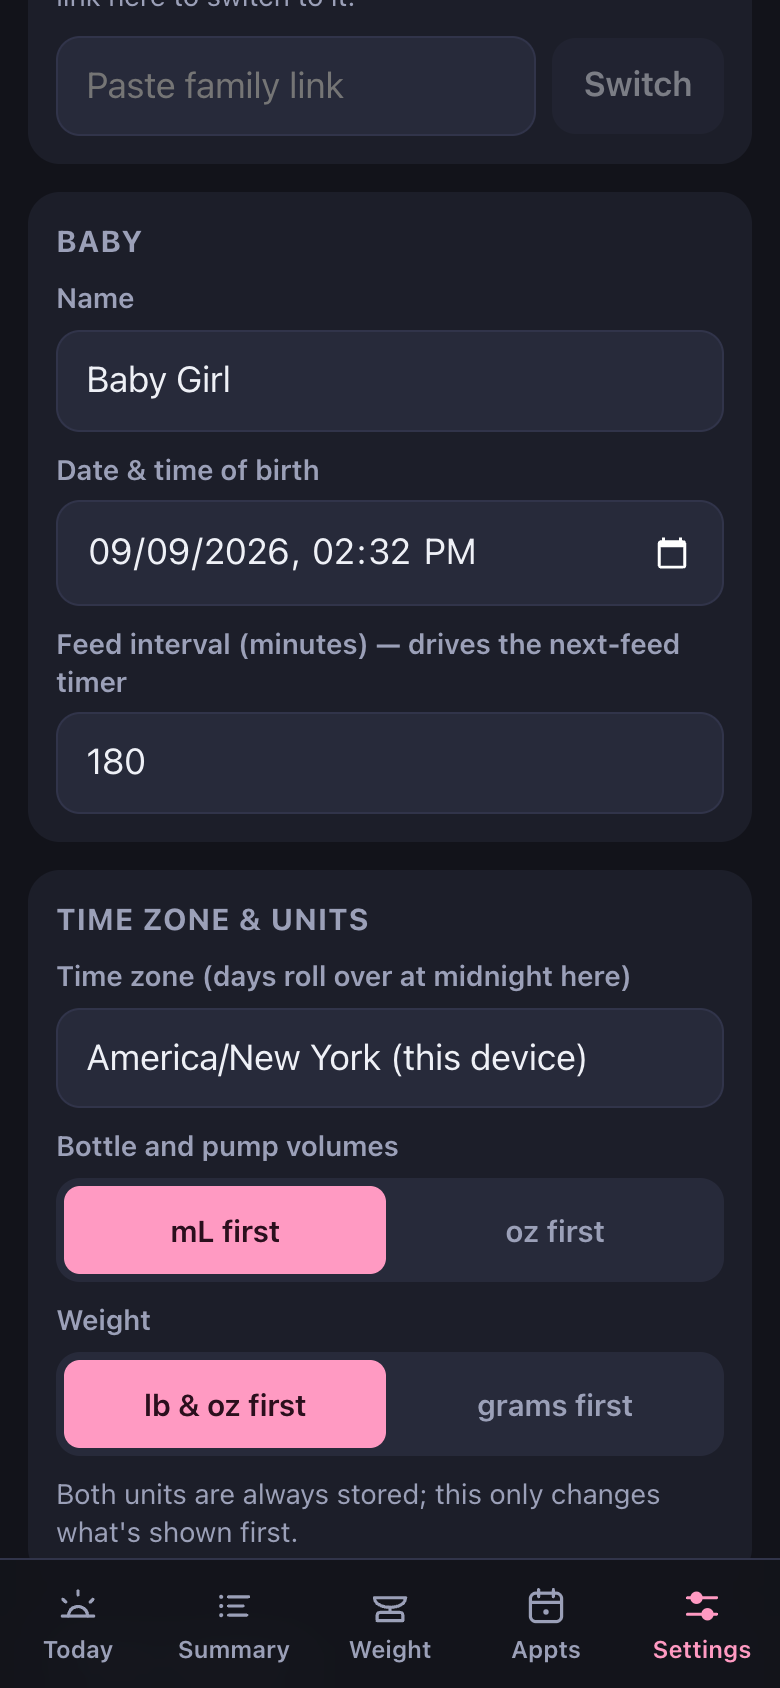
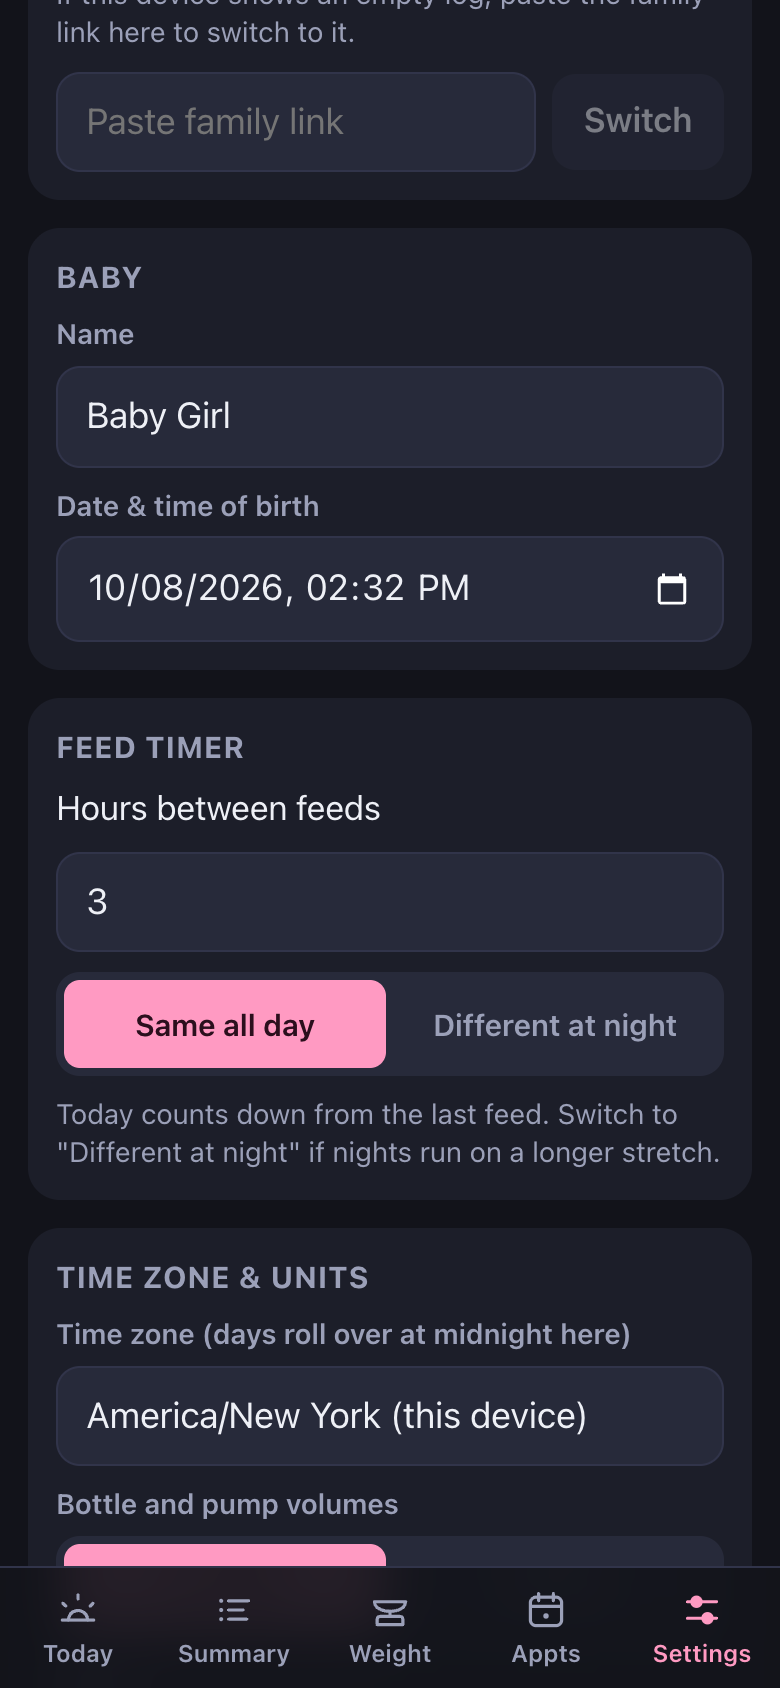
Feed timer: optional night interval chosen by when the last feed started; release notes 1.17

Changed region(s): [[0.0615, 0.0, 0.9538, 0.9858], [0.7385, 0.0308, 0.8923, 0.0924], [0.5846, 0.0, 0.6154, 0.0308]]

diff --git a/src/screens/Settings.tsx b/src/screens/Settings.tsx
@@ -2,7 +2,7 @@ import { useEffect, useState } from 'react';
 import { useStore } from '../data/store';
 import { useUI } from '../ui';
 import { shareUrl, joinHousehold } from '../household';
-import { MEDS, allMeds, type Settings as S, type Who } from '../types';
+import { MEDS, allMeds, type Who } from '../types';
 import { Field, Seg } from '../components/common';
 import { getTimezone, deviceTimezone } from '../lib/time';
 import { entriesToCsv, backupJson, deliverFile } from '../lib/export';
@@ -29,6 +29,14 @@ function MedInterval({ label, minutes, onSave }: { label: string; minutes: numbe
   );
 }
 
+/** "21:00" shifted by `deltaMin`, as "8:30 PM". */
+function fmtClock(hhmm: string, deltaMin: number): string {
+  const [h, m] = hhmm.split(':').map(Number);
+  const t = (((h * 60 + m + deltaMin) % 1440) + 1440) % 1440;
+  const hh = Math.floor(t / 60), mm = t % 60;
+  return `${hh % 12 || 12}:${String(mm).padStart(2, '0')} ${hh < 12 ? 'AM' : 'PM'}`;
+}
+
 const TIMEZONES: string[] = (() => {
   try { const all = (Intl as unknown as { supportedValuesOf?: (k: string) => string[] }).supportedValuesOf?.('timeZone'); if (all?.length) return all; } catch { /* ignore */ }
   return ['America/New_York', 'America/Chicago', 'America/Denver', 'America/Los_Angeles', 'America/Phoenix', 'America/Anchorage', 'Pacific/Honolulu', 'America/Toronto', 'America/Vancouver', 'Europe/London', 'Europe/Paris', 'Europe/Berlin', 'Asia/Tokyo', 'Australia/Sydney', 'UTC'];
@@ -43,8 +51,8 @@ export function Settings() {
   const [busy, setBusy] = useState<string | null>(null);
   const [doc, setDoc] = useState<{ title: string; src: string } | null>(null);
   const url = shareUrl(hid);
-  const num = (k: keyof S) => (v: string) => { const n = +v; if (!isNaN(n) && n > 0) void saveSettings({ [k]: n } as Partial<S>); };
   const tz = settings.tz ?? getTimezone();
+  const night = settings.night_feeds ?? { enabled: false, start: '21:00', end: '06:00' };
   const units = settings.units ?? { volume: 'ml', weight: 'lb' };
   const custom = settings.custom_meds ?? [];
   const meds = allMeds(custom).filter((m) => m.value !== 'other');
@@ -144,7 +152,24 @@ export function Settings() {
         <h3>Baby</h3>
         <TextSetting label="Name" value={settings.baby_name} onSave={(v) => void saveSettings({ baby_name: v || 'Baby' })} />
         <TextSetting label="Date & time of birth" type="datetime-local" value={settings.dob} onSave={(v) => v && void saveSettings({ dob: v })} />
-        <TextSetting label="Feed interval (minutes) — drives the next-feed timer" type="number" inputMode="numeric" value={String(settings.feed_interval_min)} onSave={num('feed_interval_min')} />
+      </div>
+
+      <div className="card">
+        <h3>Feed timer</h3>
+        <MedInterval key={`feed-${settings.feed_interval_min}`} label="Hours between feeds" minutes={settings.feed_interval_min} onSave={(h) => { const n = parseFloat(h); if (h && !isNaN(n) && n > 0) void saveSettings({ feed_interval_min: Math.round(n * 60) }); }} />
+        <Seg<'same' | 'night'> options={[{ value: 'same', label: 'Same all day' }, { value: 'night', label: 'Different at night' }]} value={night.enabled ? 'night' : 'same'} onChange={(v) => void saveSettings({ night_feeds: { ...night, enabled: v === 'night' } })} />
+        {night.enabled ? (
+          <>
+            <MedInterval key={`night-${night.interval_min ?? ''}`} label="Hours between feeds at night" minutes={night.interval_min} onSave={(h) => { const n = parseFloat(h); void saveSettings({ night_feeds: { ...night, interval_min: !h || isNaN(n) || n <= 0 ? undefined : Math.round(n * 60) } }); }} />
+            <div className="night-times">
+              <TextSetting key={`ns-${night.start}`} label="Night starts" type="time" value={night.start} onSave={(v) => v && void saveSettings({ night_feeds: { ...night, start: v } })} />
+              <TextSetting key={`ne-${night.end}`} label="Night ends" type="time" value={night.end} onSave={(v) => v && void saveSettings({ night_feeds: { ...night, end: v } })} />
+            </div>
+            <div className="muted small">The interval follows when the last feed <b>started</b>: a feed at {fmtClock(night.start, -30)} counts down the day hours, one at {fmtClock(night.start, 0)} the night hours.{!night.interval_min && ' Enter night hours to turn it on.'}</div>
+          </>
+        ) : (
+          <div className="muted small">Today counts down from the last feed. Switch to "Different at night" if nights run on a longer stretch.</div>
+        )}
       </div>
 
       <div className="card">

diff --git a/docs/release-notes/index.html b/docs/release-notes/index.html
@@ -85,15 +85,15 @@
 
 <div class="wrap">
   <header>
-    <div class="eyebrow">Release notes · Sep 12 – Oct 24, 2026</div>
+    <div class="eyebrow">Release notes · Sep 12 – Oct 26, 2026</div>
     <svg class="mark" viewBox="0 0 512 512" aria-hidden="true"><rect width="512" height="512" rx="110" fill="#12131a"/><circle cx="256" cy="256" r="172" fill="none" stroke="#ff9ac2" stroke-width="36"/><g transform="translate(124 124) scale(11)" fill="none" stroke="#ff9ac2" stroke-width="1.9" stroke-linecap="round" stroke-linejoin="round"><path d="M10.25 5.5V4.5a1.75 1.75 0 0 1 3.5 0v1"/><rect x="8.75" y="5.5" width="6.5" height="2.75" rx="1"/><path d="M8.25 8.25h7.5v9.5a3 3 0 0 1-3 3h-1.5a3 3 0 0 1-3-3z"/><path d="M8.25 12h2.25M8.25 15h2.25"/></g></svg>
     <h1>bébé <span>tracker</span></h1>
     <p class="lede">A shared logbook for a newborn's feeds, diapers, pumping and mom's meds. Two phones, one live dataset, built for one-handed use at 3 am. This page follows how it changed over its first ten days.</p>
     <div class="facts">
-      <span><b>54</b> releases</span>
-      <span><b>43</b> days</span>
+      <span><b>55</b> releases</span>
+      <span><b>45</b> days</span>
       <span><b>5</b> tabs</span>
-      <span><b>32</b> automated tests</span>
+      <span><b>36</b> automated tests</span>
       <span>Live at <a href="https://bebe.fyi">bebe.fyi</a></span>
     </div>
   </header>
@@ -404,6 +404,22 @@
         <div class="shots">
           <figure class="phone"><div class="screen"><img src="shots/today-diapers-off.png" alt="Today with diaper tracking off: three tiles in Today so far and a greyed-out Diaper button in the dock." loading="lazy"></div><figcaption><b>Diapers off</b>One row of tiles, Diaper greyed out.</figcaption></figure>
           <figure class="phone"><div class="screen"><img src="shots/settings-diapers.png" alt="Settings: the Meds and Diapers cards, each with an on/off switch." loading="lazy"></div><figcaption><b>The switches</b>Meds and Diapers, side by side.</figcaption></figure>
+        </div>
+      </div>
+    </article>
+
+    <article class="release">
+      <div class="stamp"><div class="ver">1.17</div><div class="when">Mon Oct 26</div></div>
+      <div class="body">
+        <h2>Longer nights</h2>
+        <ul class="notes">
+          <li><b>A night interval for the feed timer.</b> Settings has a new Feed timer card: hours between feeds, and a "Different at night" switch with its own hours and when night starts and ends. Every three hours by day and four at night, say, from 9 PM to 6 AM.</li>
+          <li><b>It goes by when she last ate.</b> A 7:30 PM feed is a daytime feed, so the next one is due at 10:30 PM even though that's after nine. A feed that starts at 9 PM or later counts down the night hours. Today's feed line says which one it used: "Last feed 10:15 PM · night, 4h".</li>
+          <li><b>Hours, not minutes.</b> The feed interval moved out of the Baby card and is entered in hours, like the med and pump intervals.</li>
+        </ul>
+        <div class="shots">
+          <figure class="phone"><div class="screen"><img src="shots/settings-feed-timer.png" alt="Settings: the Feed timer card with 3 hours between feeds, Different at night selected, 4 hours at night, and night from 9:00 PM to 6:00 AM." loading="lazy"></div><figcaption><b>Feed timer</b>Day hours, night hours, and when night is.</figcaption></figure>
+          <figure class="phone"><div class="screen"><img src="shots/today-night.png" alt="Today: the feed countdown with the line Last feed, day, 3h underneath." loading="lazy"></div><figcaption><b>Today</b>The feed line names the interval it used.</figcaption></figure>
         </div>
       </div>
     </article>

diff --git a/src/lib/timers.test.ts b/src/lib/timers.test.ts
@@ -1,5 +1,6 @@
 import { describe, it, expect } from 'vitest';
-import { nextFeedDue, medTimer, rotationNext, pumpTimer, recentDoses } from './timers';
+import { nextFeedDue, medTimer, rotationNext, pumpTimer, recentDoses, isNightAt } from './timers';
+import { fromNYLocal, setTimezone } from './time';
 import type { Entry } from '../types';
 
 const feed = (at: number, deleted = false): Entry =>
@@ -96,5 +97,40 @@ describe('recentDoses', () => {
     const old: Entry = { ...dose(now - 8 * D, 'tylenol') };
     const del: Entry = { ...dose(now - 1 * H, 'motrin'), deleted_at: now };
     expect(recentDoses([old, del], now, 7)).toEqual([]);
+  });
+});
+
+describe('night feed schedule', () => {
+  setTimezone('America/New_York');
+  const night = { enabled: true, interval_min: 240, start: '21:00', end: '06:00' };
+  const at = (hh: number, mm: number, d = 20) => fromNYLocal(2026, 10, d, hh, mm);
+  it('picks the window by the clock time, wrapping midnight', () => {
+    expect(isNightAt(at(20, 59), night)).toBe(false);
+    expect(isNightAt(at(21, 0), night)).toBe(true);
+    expect(isNightAt(at(0, 30), night)).toBe(true);
+    expect(isNightAt(at(5, 59), night)).toBe(true);
+    expect(isNightAt(at(6, 0), night)).toBe(false);
+  });
+  it('uses the interval of the last feed, not of the due time', () => {
+    const evening = nextFeedDue([feed(at(19, 30))], 180, at(19, 31), night)!;
+    expect(evening.night).toBe(false);
+    expect(evening.dueAt).toBe(at(22, 30));
+    const late = nextFeedDue([feed(at(21, 0))], 180, at(21, 1), night)!;
+    expect(late.night).toBe(true);
+    expect(late.dueAt).toBe(at(1, 0, 21));
+    const dawn = nextFeedDue([feed(at(5, 59))], 180, at(6, 0), night)!;
+    expect(dawn.intervalMin).toBe(240);
+  });
+  it('falls back to the day interval when off or blank', () => {
+    expect(nextFeedDue([feed(at(23, 0))], 180, at(23, 1), { ...night, enabled: false })!.intervalMin).toBe(180);
+    expect(nextFeedDue([feed(at(23, 0))], 180, at(23, 1), { ...night, interval_min: undefined })!.intervalMin).toBe(180);
+    expect(nextFeedDue([feed(at(23, 0))], 180, at(23, 1))!.night).toBe(false);
+  });
+  it('holds across the fall-back clock change', () => {
+    // Nov 1 2026, 1:00 AM EDT: a 4h night interval is 4 real hours even though the clock repeats an hour.
+    const t = fromNYLocal(2026, 11, 1, 0, 30);
+    const f = nextFeedDue([feed(t)], 180, t + 60_000, night)!;
+    expect(f.night).toBe(true);
+    expect(f.dueAt - t).toBe(4 * H);
   });
 });

diff --git a/src/lib/timers.ts b/src/lib/timers.ts
@@ -1,9 +1,20 @@
 import type { Entry, Med } from '../types';
 import { isActive } from './summary';
+import { localParts } from './time';
+
+export interface NightFeeds { enabled: boolean; interval_min?: number; start: string; end: string }
+const toMin = (hhmm: string) => { const [h, m] = hhmm.split(':').map(Number); return (h % 24) * 60 + (m || 0); };
+
+/** True when the instant falls inside the night window (household-local clock; the window may wrap midnight). */
+export function isNightAt(ms: number, night: NightFeeds): boolean {
+  const { hh, mm } = localParts(ms);
+  const t = hh * 60 + mm, s = toMin(night.start), e = toMin(night.end);
+  return s === e ? false : s < e ? t >= s && t < e : t >= s || t < e;
+}
 
 export type FeedStatus = 'ok' | 'due' | 'late';
 
-export interface FeedTimer { lastAt: number; dueAt: number; remainingMs: number; status: FeedStatus }
+export interface FeedTimer { lastAt: number; dueAt: number; remainingMs: number; status: FeedStatus; intervalMin: number; night: boolean }
 
 export function lastFeedAt(entries: Entry[]): number | null {
   let last: number | null = null;
@@ -11,14 +22,19 @@ export function lastFeedAt(entries: Entry[]): number | null {
   return last;
 }
 
-/** Amber at 0, red at +30 min. */
-export function nextFeedDue(entries: Entry[], intervalMin: number, now: number): FeedTimer | null {
+/**
+ * Amber at 0, red at +30 min. With a night schedule, the interval is picked by when the LAST feed
+ * started: a 7:30 PM feed uses the day interval even if the next one lands after night begins.
+ */
+export function nextFeedDue(entries: Entry[], dayIntervalMin: number, now: number, night?: NightFeeds): FeedTimer | null {
   const lastAt = lastFeedAt(entries);
   if (lastAt === null) return null;
+  const isNight = !!(night?.enabled && night.interval_min && night.interval_min > 0 && isNightAt(lastAt, night));
+  const intervalMin = isNight ? night!.interval_min! : dayIntervalMin;
   const dueAt = lastAt + intervalMin * 60_000;
   const remainingMs = dueAt - now;
   const status: FeedStatus = remainingMs > 0 ? 'ok' : remainingMs > -30 * 60_000 ? 'due' : 'late';
-  return { lastAt, dueAt, remainingMs, status };
+  return { lastAt, dueAt, remainingMs, status, intervalMin, night: isNight };
 }
 
 export interface MedTimer { med: Med; lastAt: number | null; okAt: number | null; remainingMs: number; ok: boolean }

diff --git a/src/styles.css b/src/styles.css
@@ -65,14 +65,14 @@ h1 { font-size: 22px; } h2 { font-size: 18px; } h3 { font-size: 15px; color: var
 
 .field { display: flex; flex-direction: column; gap: 6px; }
 .field label { font-size: 14px; color: var(--muted); font-weight: 600; }
-input[type=text], input[type=number], input[type=datetime-local], input[type=date], textarea, select {
+input[type=text], input[type=number], input[type=datetime-local], input[type=date], input[type=time], textarea, select {
   -webkit-appearance: none; appearance: none;
   background: var(--card2); border: 1px solid var(--border); border-radius: var(--r-ctl); padding: 12px 14px; min-height: 48px; width: 100%; font-size: 18px; outline: none;
 }
 input:focus, textarea:focus { border-color: var(--accent); }
 /* iOS Safari gives date/time inputs an intrinsic width and centers the value; force them into the grid. */
-input[type=datetime-local], input[type=date] { -webkit-appearance: none; appearance: none; display: block; min-width: 0; max-width: 100%; text-align: left; }
-input[type=datetime-local]::-webkit-date-and-time-value, input[type=date]::-webkit-date-and-time-value { text-align: left; min-height: 1.3em; }
+input[type=datetime-local], input[type=date], input[type=time] { -webkit-appearance: none; appearance: none; display: block; min-width: 0; max-width: 100%; text-align: left; }
+input[type=datetime-local]::-webkit-date-and-time-value, input[type=date]::-webkit-date-and-time-value, input[type=time]::-webkit-date-and-time-value { text-align: left; min-height: 1.3em; }
 textarea { min-height: 64px; resize: vertical; }
 .inline { display: flex; gap: 8px; align-items: center; }
 .inline input { flex: 1; min-width: 0; }
@@ -183,3 +183,5 @@ table.summary td.expand { padding: 0; text-align: left; white-space: normal; }
 
 /* Demo household badge in the Today header */
 .badge.demo { background: var(--accent); color: var(--accent-ink); text-decoration: none; font-weight: 700; white-space: nowrap; }
+.night-times { display: grid; grid-template-columns: 1fr 1fr; gap: 10px; }
+.night-times input { min-width: 0; }

diff --git a/src/screens/Today.tsx b/src/screens/Today.tsx
@@ -18,7 +18,8 @@ export function Today() {
   const today = dayOf(now);
   const dob = parseNYLocal(settings.dob);
   const age = ageAt(dob, now);
-  const feed = nextFeedDue(entries, settings.feed_interval_min, now);
+  const feed = nextFeedDue(entries, settings.feed_interval_min, now, settings.night_feeds);
+  const nightOn = !!(settings.night_feeds?.enabled && settings.night_feeds.interval_min);
   const medsOn = settings.meds_enabled !== false;
   const lastMode = settings.today_mode === 'last';
   const rotationOn = !lastMode && settings.rotation.enabled && !!settings.rotation.stagger_min;
@@ -61,7 +62,7 @@ export function Today() {
           <span className="ico t-feed"><Icon name="feed" /></span>
           <span className="grow">
             <span className={feedClass}>{feedLine}</span>
-            <span className="sub">{feed ? `Last feed ${fmtTime(feed.lastAt)}` : 'Tap to log the first feed'}</span>
+            <span className="sub">{feed ? `Last feed ${fmtTime(feed.lastAt)}${nightOn ? ` · ${feed.night ? 'night' : 'day'}, ${fmtDur(feed.intervalMin * 60_000)}` : ''}` : 'Tap to log the first feed'}</span>
           </span>
           {feed?.status === 'ok' && <span className="due">{fmtTime(feed.dueAt)}</span>}
         </button>

diff --git a/docs/guide/index.html b/docs/guide/index.html
@@ -111,6 +111,7 @@
       <div class="tip"><b>Wet is two taps.</b>Diaper, then Wet, saved. Dirty asks for a colour, and the colour tap saves.</div>
       <div class="tip"><b>Made a mistake?</b>Tap an entry to edit. Swipe left to delete. Undo sits at the bottom for ten seconds.</div>
       <div class="tip"><b>Mom's meds count down too.</b>Enter the hours between doses in Settings. The app never suggests an interval or a dose.</div>
+      <div class="tip"><b>Longer stretches at night?</b>Settings → Feed timer → Different at night. A feed that starts after night begins counts down the night hours.</div>
       <div class="tip"><b>No signal, no problem.</b>Entries save on the phone and sync when you're back online.</div>
     </div>
   </section>

diff --git a/src/types.ts b/src/types.ts
@@ -56,6 +56,8 @@ export interface Settings {
   /** ISO local wall-clock time of birth in America/New_York, e.g. 2026-01-15T14:32 */
   dob: string;
   feed_interval_min: number;
+  /** Optional night schedule: a feed that STARTS between `start` and `end` (household-local HH:MM, may wrap midnight) uses `interval_min` instead of `feed_interval_min`. */
+  night_feeds?: { enabled: boolean; interval_min?: number; start: string; end: string };
   med_intervals: Partial<Record<Med, number>>;
   /** Alternate Tylenol and Motrin: minimum minutes between any two doses of the pair. Off until set. */
   rotation: { enabled: boolean; stagger_min?: number };

diff --git a/AGENTS.md b/AGENTS.md
@@ -29,7 +29,7 @@ The repo is public (github.com/esp8879/bebe-tracker). Commit as `esp8879 <695531
 - `npm run deploy` = build + `firebase deploy --only hosting,firestore`
 
 ## Screens
-Tabs: Today · Summary (By day / All entries) · Weight · Appts · Settings. Today must fit an iPhone without scrolling (measure at 393x759, an iPhone 15 minus its insets): feed card, pump card, meds card (five timer rows max; `roomy` spacing at three rows or fewer), Today so far, weight + next appointment side by side, quick-log dock above the tab bar. `settings.today_mode` (`countdown` | `last`) switches the pump and meds cards between countdowns from intervals and last-time-only rows (`recentDoses`, meds dosed in the last 24 hours); `settings.pump_interval_min` is optional. `settings.meds_enabled === false` hides the meds card, greys the dock's Meds button (tap shows a toast) and hides the med interval and rotation settings; history and intervals are kept. `settings.diapers_enabled === false` does the same for diapers: hides the diaper tiles on Today and the diaper columns in the Summary table, greys the dock's Diaper button; entries stay in All entries and exports.
+Tabs: Today · Summary (By day / All entries) · Weight · Appts · Settings. Today must fit an iPhone without scrolling (measure at 393x759, an iPhone 15 minus its insets): feed card, pump card, meds card (five timer rows max; `roomy` spacing at three rows or fewer), Today so far, weight + next appointment side by side, quick-log dock above the tab bar. `settings.today_mode` (`countdown` | `last`) switches the pump and meds cards between countdowns from intervals and last-time-only rows (`recentDoses`, meds dosed in the last 24 hours); `settings.pump_interval_min` is optional. `settings.night_feeds` ({enabled, interval_min, start, end}, household-local HH:MM, may wrap midnight) gives the feed timer a second interval; it is chosen by when the LAST feed started (`isNightAt` in `src/lib/timers.ts`), never by when the next one lands. Today's feed line then reads "Last feed 10:15 PM · night, 4h". `settings.meds_enabled === false` hides the meds card, greys the dock's Meds button (tap shows a toast) and hides the med interval and rotation settings; history and intervals are kept. `settings.diapers_enabled === false` does the same for diapers: hides the diaper tiles on Today and the diaper columns in the Summary table, greys the dock's Diaper button; entries stay in All entries and exports.
 
 ## Conventions
 - iOS 26 home-screen apps blur a band ~40pt below the status bar (`black-translucent`). Screens start at `env(safe-area-inset-top) + 30px` or more; don't put content higher.

diff --git a/CLAUDE.md b/CLAUDE.md
@@ -29,7 +29,7 @@ The repo is public (github.com/esp8879/bebe-tracker). Commit as `esp8879 <695531
 - `npm run deploy` = build + `firebase deploy --only hosting,firestore`
 
 ## Screens
-Tabs: Today · Summary (By day / All entries) · Weight · Appts · Settings. Today must fit an iPhone without scrolling (measure at 393x759, an iPhone 15 minus its insets): feed card, pump card, meds card (five timer rows max; `roomy` spacing at three rows or fewer), Today so far, weight + next appointment side by side, quick-log dock above the tab bar. `settings.today_mode` (`countdown` | `last`) switches the pump and meds cards between countdowns from intervals and last-time-only rows (`recentDoses`, meds dosed in the last 24 hours); `settings.pump_interval_min` is optional. `settings.meds_enabled === false` hides the meds card, greys the dock's Meds button (tap shows a toast) and hides the med interval and rotation settings; history and intervals are kept. `settings.diapers_enabled === false` does the same for diapers: hides the diaper tiles on Today and the diaper columns in the Summary table, greys the dock's Diaper button; entries stay in All entries and exports.
+Tabs: Today · Summary (By day / All entries) · Weight · Appts · Settings. Today must fit an iPhone without scrolling (measure at 393x759, an iPhone 15 minus its insets): feed card, pump card, meds card (five timer rows max; `roomy` spacing at three rows or fewer), Today so far, weight + next appointment side by side, quick-log dock above the tab bar. `settings.today_mode` (`countdown` | `last`) switches the pump and meds cards between countdowns from intervals and last-time-only rows (`recentDoses`, meds dosed in the last 24 hours); `settings.pump_interval_min` is optional. `settings.night_feeds` ({enabled, interval_min, start, end}, household-local HH:MM, may wrap midnight) gives the feed timer a second interval; it is chosen by when the LAST feed started (`isNightAt` in `src/lib/timers.ts`), never by when the next one lands. Today's feed line then reads "Last feed 10:15 PM · night, 4h". `settings.meds_enabled === false` hides the meds card, greys the dock's Meds button (tap shows a toast) and hides the med interval and rotation settings; history and intervals are kept. `settings.diapers_enabled === false` does the same for diapers: hides the diaper tiles on Today and the diaper columns in the Summary table, greys the dock's Diaper button; entries stay in All entries and exports.
 
 ## Conventions
 - iOS 26 home-screen apps blur a band ~40pt below the status bar (`black-translucent`). Screens start at `env(safe-area-inset-top) + 30px` or more; don't put content higher.
